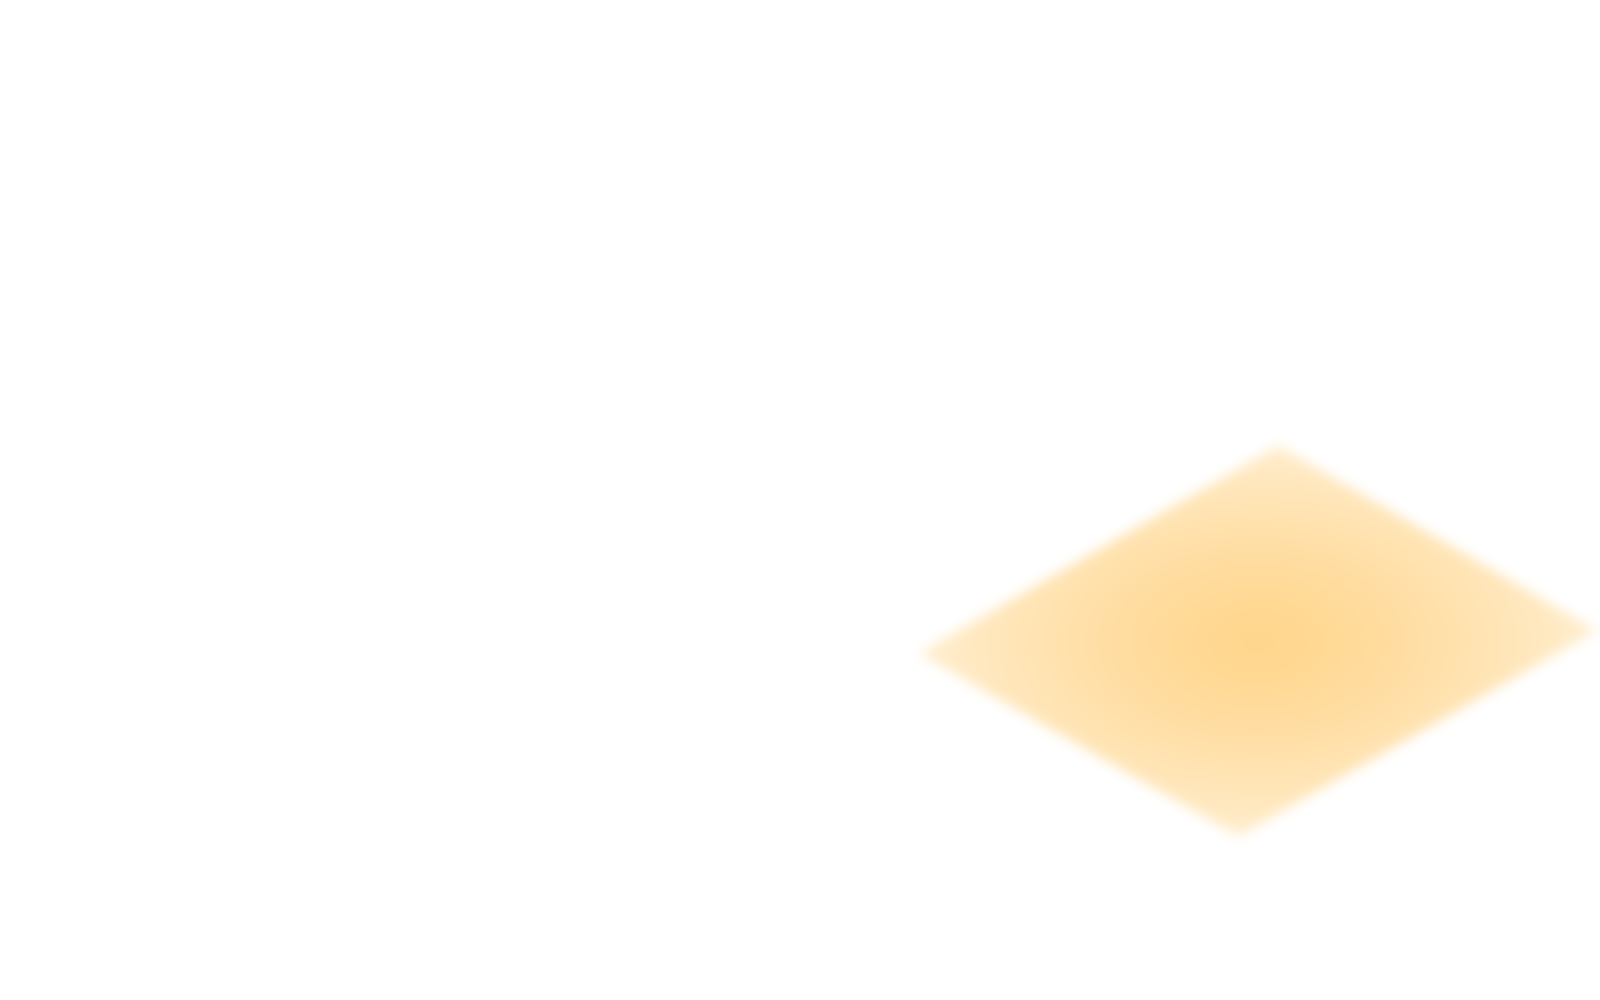
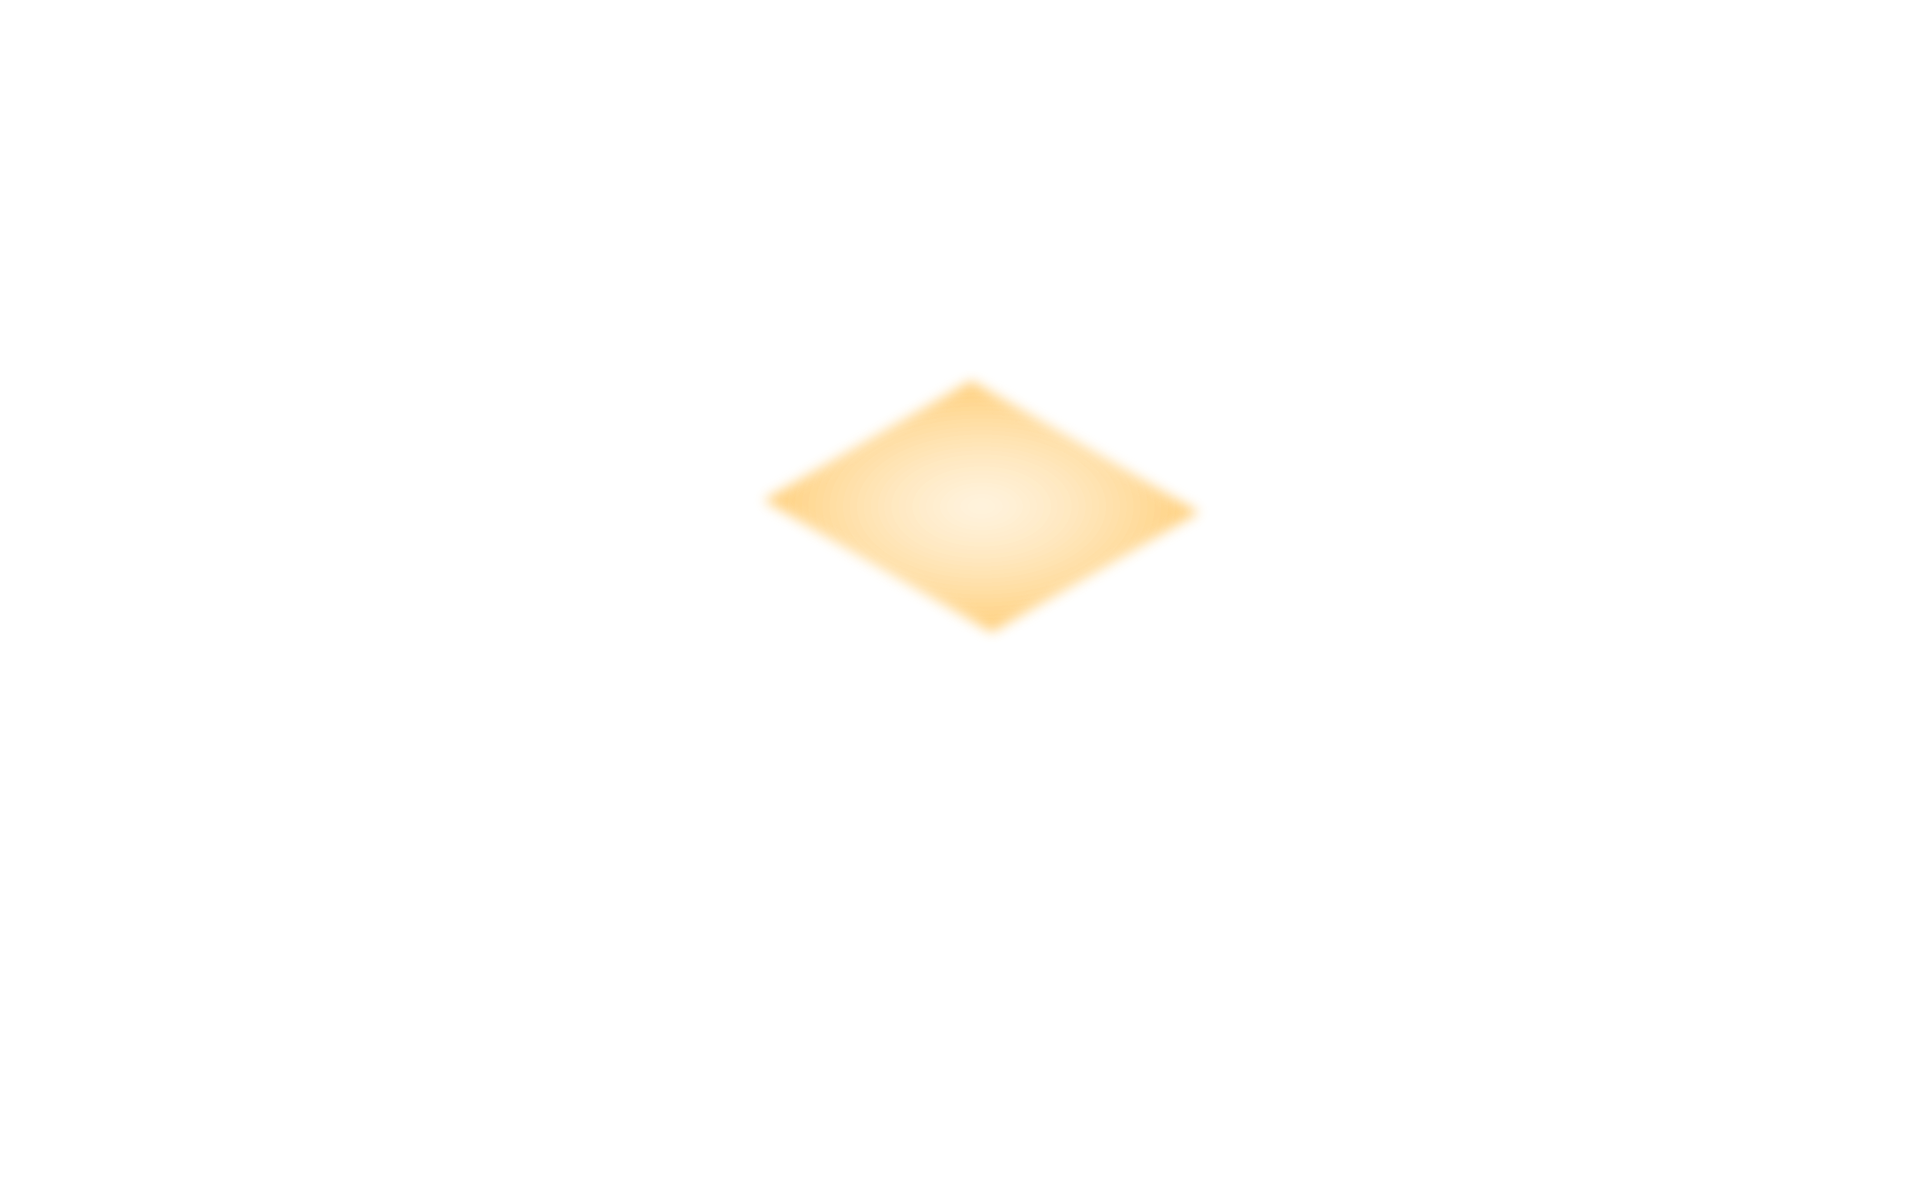
Aplica el mapa 3D del Plan 4 al dashboard
- Nuevas casa_base.png y capas de luz (sala, cocina, dormitorio) a 1920x1200
- Iconos recolocados con las posiciones calculadas por el script
- ?v=2 en las rutas de imagen para saltar la caché del navegador
- CLAUDE.md actualizado

Claude-Session: https://claude.ai/code/session_01C5ELBJm8ggcwRKwR2UPoDk

Changed region(s): [[0.5625, 0.434, 1.0, 0.837], [0.375, 0.31, 0.625, 0.527]]

diff --git a/ha-floorplan/CLAUDE.md b/ha-floorplan/CLAUDE.md
@@ -11,6 +11,7 @@ ha-floorplan/
 ├── CLAUDE.md                     # esta guía
 ├── .gitignore · .yamllint
 ├── scripts/
+│   ├── generate_floorplan.py     # genera el mapa 3D (casa_base.png + capas de luz)
 │   ├── bootstrap.sh              # prepara un clon limpio (tarjetas JS, Browser Mod, plantillas)
 │   └── backup.sh                 # copia del estado que NO está en Git (.storage, BD, secrets)
 ├── packages_available/
@@ -29,7 +30,7 @@ ha-floorplan/
 
 La CI (`.github/workflows/validate.yml`) ejecuta `yamllint` y `check_config` con la imagen oficial en cada push.
 
-Las imágenes incluidas son **marcadores de prueba** (un plano isométrico genérico, con fondo transparente) para que el dashboard funcione desde el primer arranque.
+Las imágenes incluidas son un **modelo isométrico estilizado del Plan 4** (2 habitaciones, 2 baños) generado por `scripts/generate_floorplan.py` (Pillow). Para regenerarlo o ajustar muros, muebles y luces: edita las tablas del script y ejecútalo; imprime las posiciones `top`/`left` de los iconos. Para un acabado realista, sustitúyelo por renders de Sweet Home 3D (sección 6).
 
 ---
 
